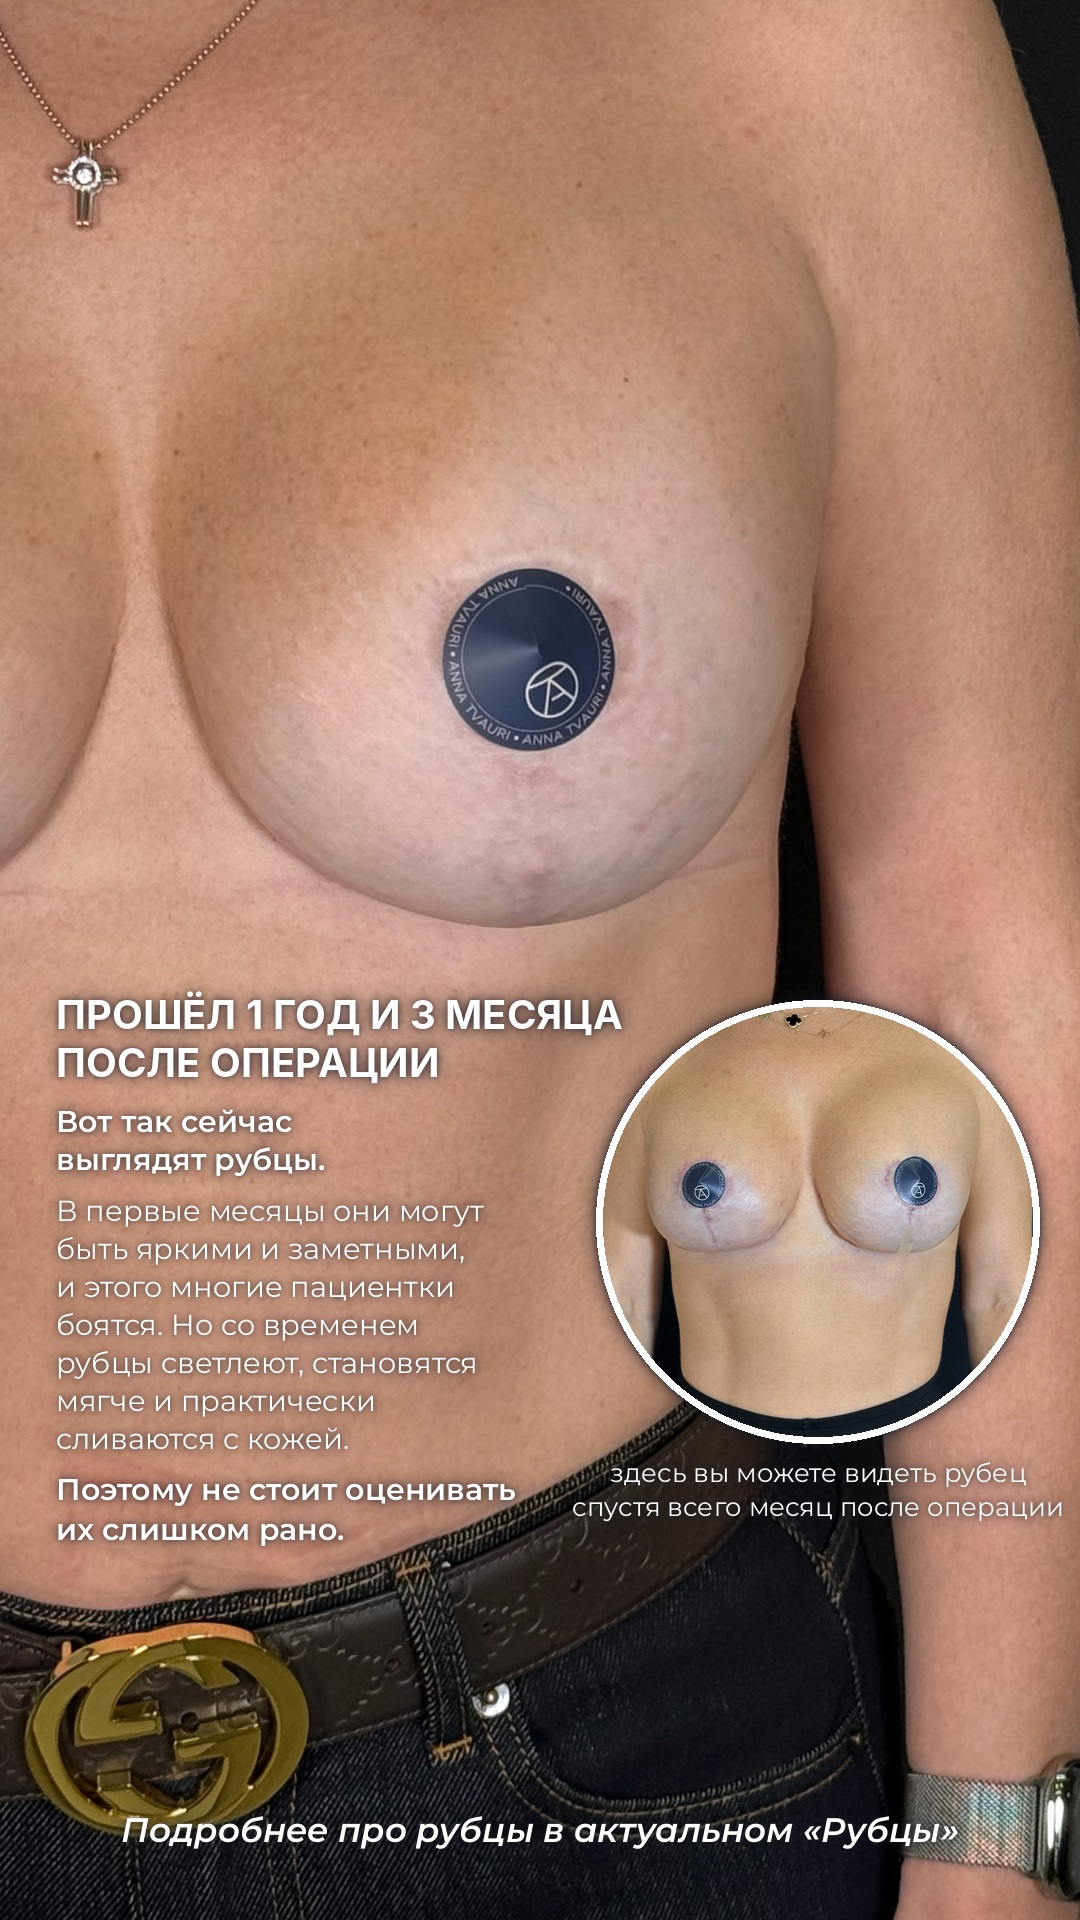
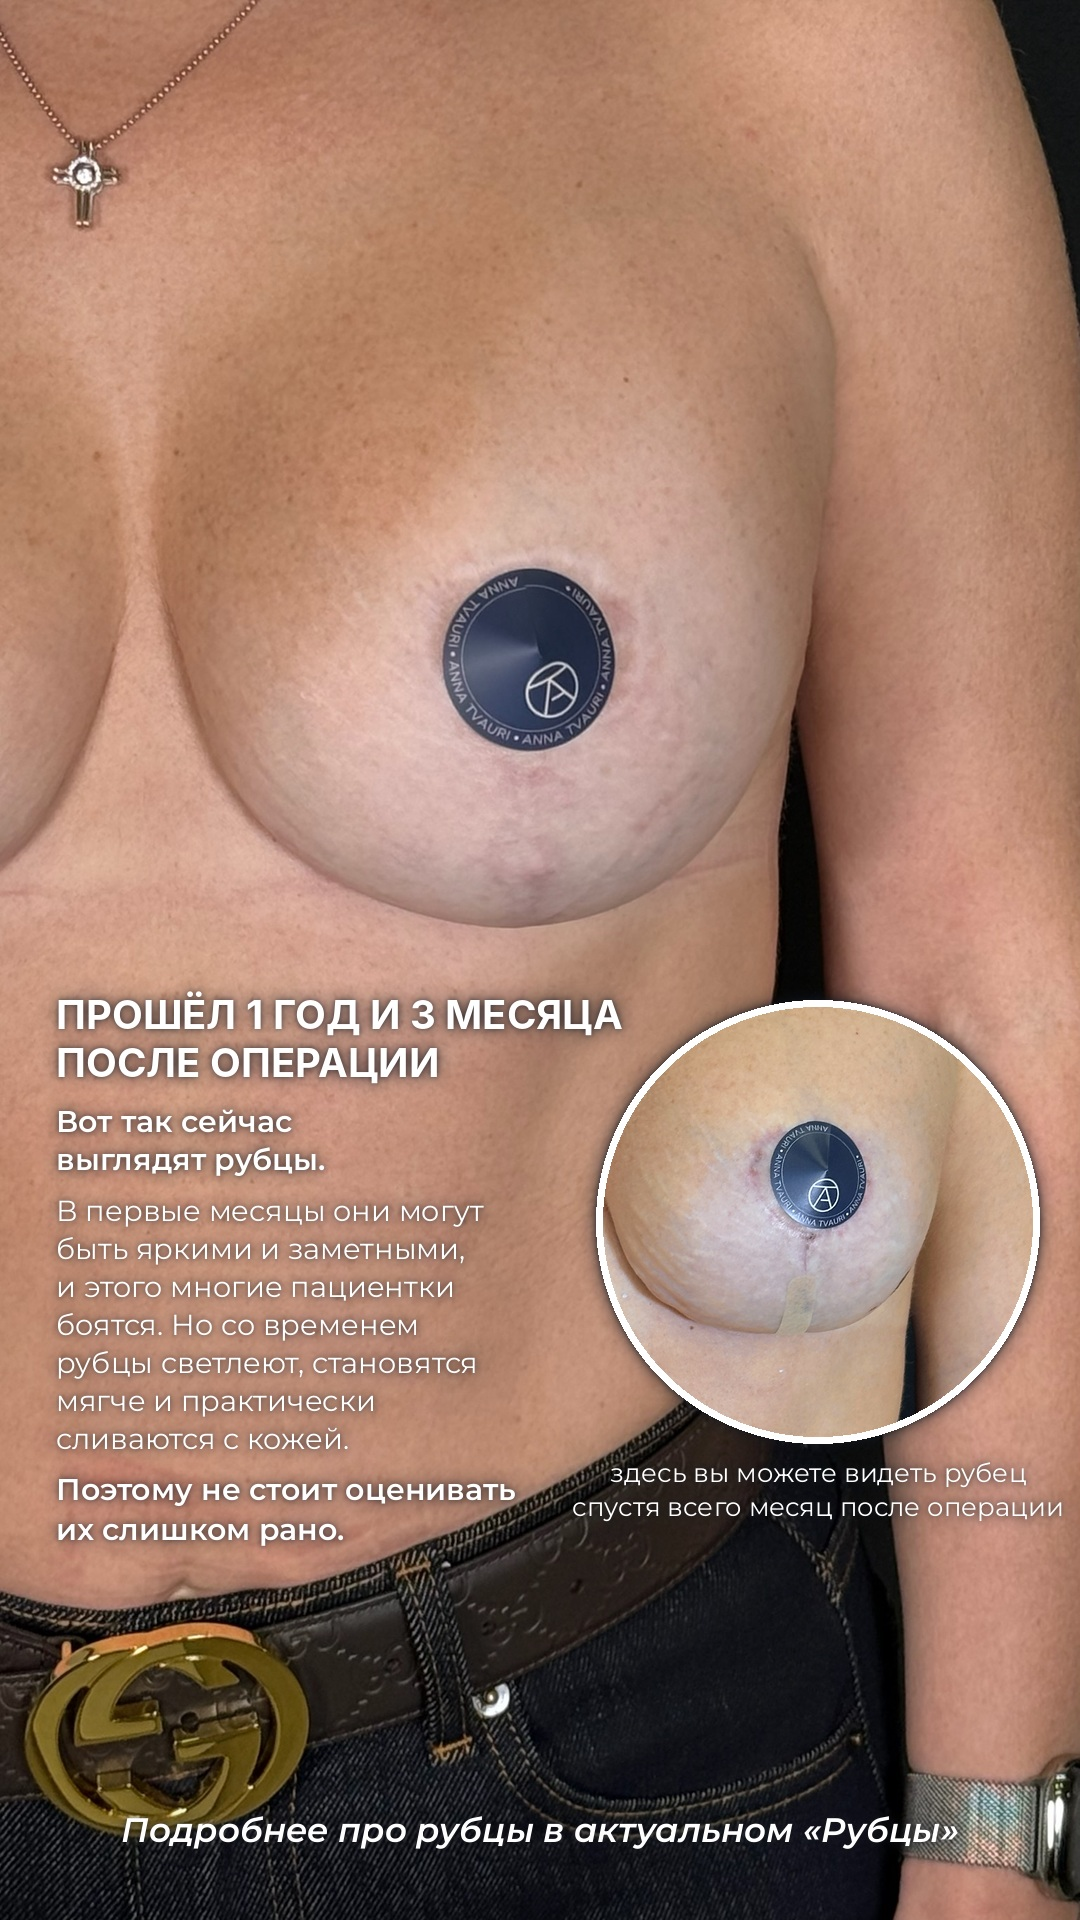
Scars story 2: circle zoomed in on the right breast scar
Claude-Session: https://claude.ai/code/session_01DoBoRz2HUe4yvMBz6dWv4L

Changed region(s): [[0.55, 0.5, 0.9472, 0.75], [0.9472, 0.625, 0.9778, 0.6562]]

diff --git a/tools/stories_scars_1y3m.py b/tools/stories_scars_1y3m.py
@@ -178,7 +178,7 @@ def s2():
     for ln in ["Поэтому не стоит оценивать", "их слишком рано."]: d.text((x, y), ln, font=fb, fill=WHITE); y += 40
     # the circle on the right: the chest one month after, as shot (both breasts, the scars visible), warmed up
     D = 430; cx, cy = W - 40 - (D + 14), 1000
-    ph = warm(Image.open(os.path.join(DRIVE, "scar_1m.bin.png")).convert("RGB")).crop((400, 450, 2600, 2650)).resize((D, D), Image.LANCZOS)   # further away: both breasts whole
+    ph = warm(Image.open(os.path.join(DRIVE, "scar_1m.bin.png")).convert("RGB")).crop((1500, 950, 2500, 1950)).resize((D, D), Image.LANCZOS)   # close-up of the right breast: areola and vertical scar
     circ = Image.new("RGBA", (D + 14, D + 14), (0, 0, 0, 0)); ImageDraw.Draw(circ).ellipse((0, 0, D + 13, D + 13), fill=WHITE + (255,))
     m = Image.new("L", (D, D), 0); ImageDraw.Draw(m).ellipse((0, 0, D - 1, D - 1), fill=255); ph = ph.convert("RGBA"); ph.putalpha(m)
     circ.alpha_composite(ph, (7, 7)); lay.alpha_composite(circ, (cx, cy))

diff --git a/stories_scars_1y3m/README.md b/stories_scars_1y3m/README.md
@@ -8,5 +8,5 @@
    ползунок → ПОСЛЕ: «увеличение груди имплантами + подтяжка», стрелки «наполненный верхний полюс», «грудь стала выше»,
    «собранная форма»; затем коллажи «1 год 3 месяца» (как у клиента) с плашкой «спустя 1 год 3 месяца после операции».
 2. `02_rubcy.jpg`: рубцы через 1 год 3 месяца (IMG_2065 целиком, в масштабе исходника, без затемнения); текст слева внизу;
-   справа кружок с рубцами через месяц (обе груди целиком, фото утеплено) и подписью «здесь вы можете видеть рубец спустя всего месяц
+   справа кружок с рубцами через месяц (крупно правая грудь: ареола и вертикальный рубец, фото утеплено) и подписью «здесь вы можете видеть рубец спустя всего месяц
    после операции»; внизу ровно, курсивом «Подробнее про рубцы в актуальном «Рубцы»».
